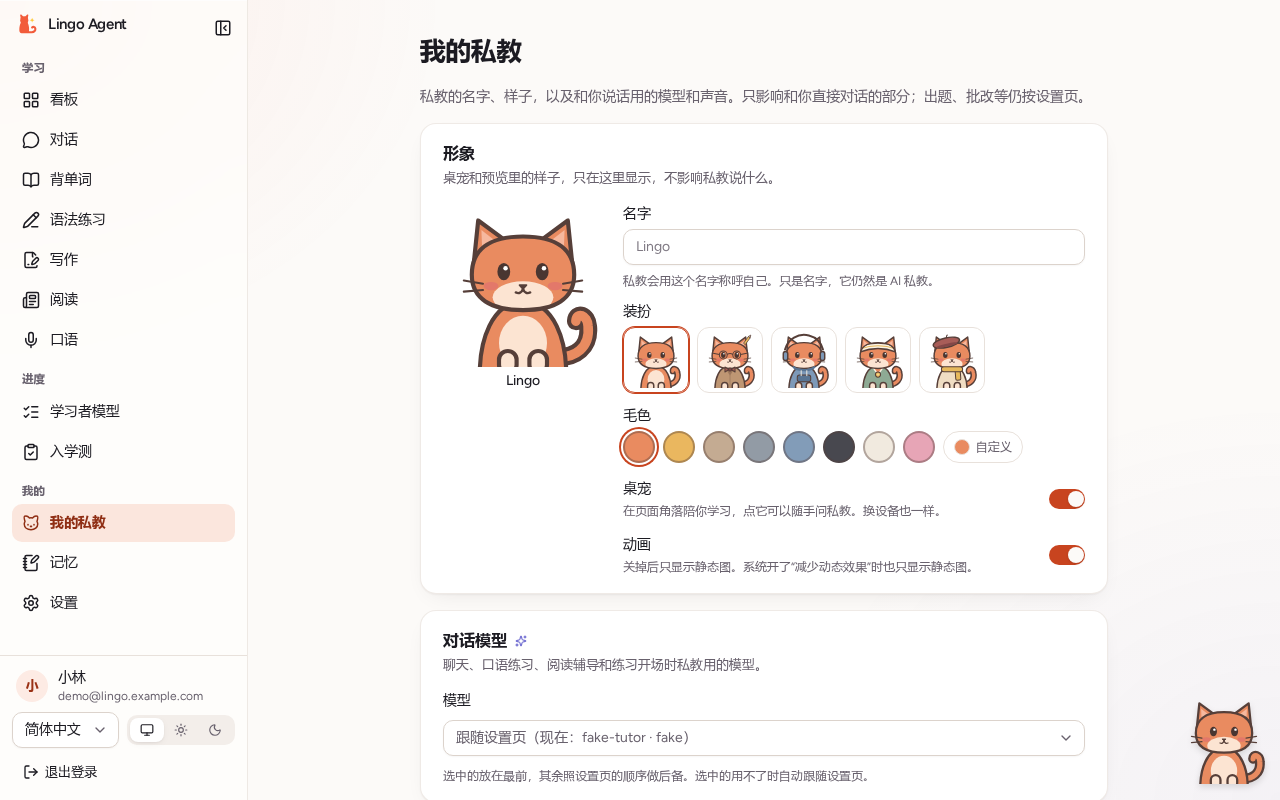
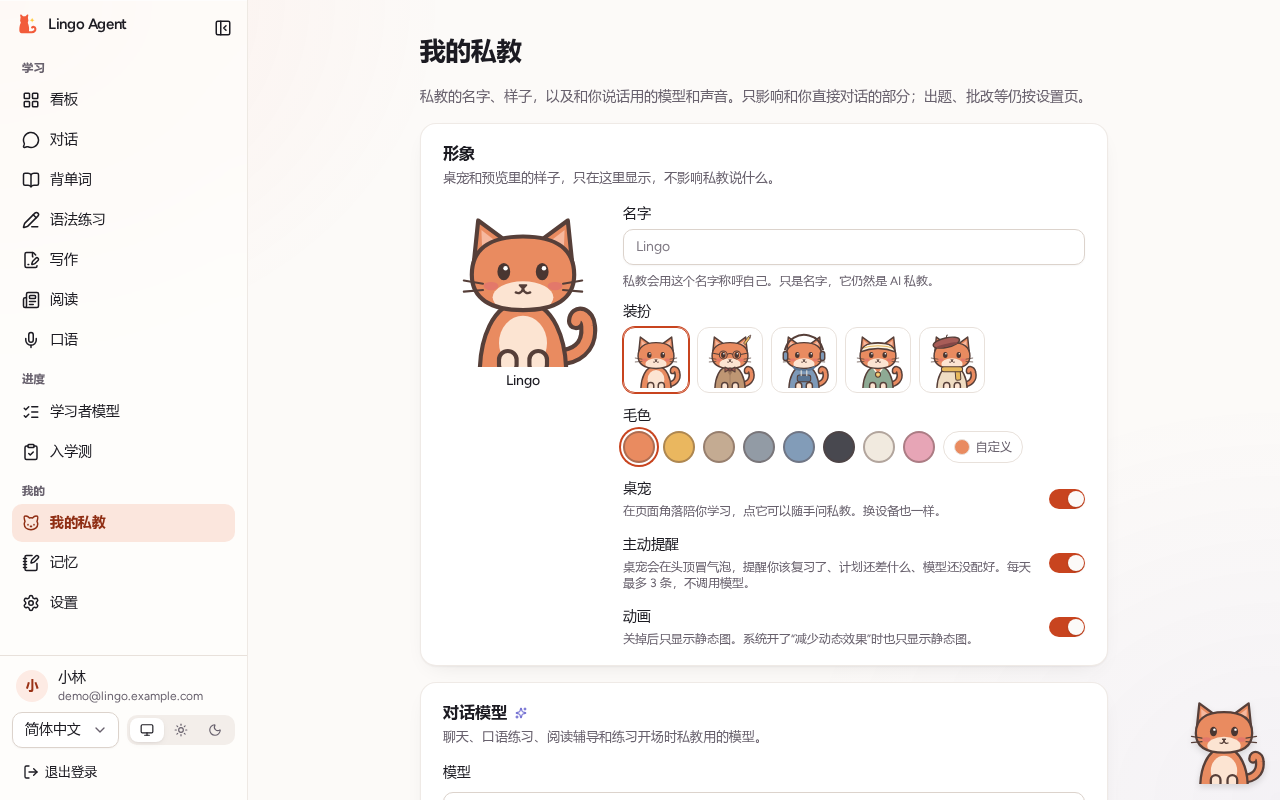
test(e2e): 桌宠指令与提醒 E2E，重拍私教页截图（任务 76.7）
pet.spec 覆盖两条主路径：没配模型时提醒气泡引到设置页连接卡片并高亮；
小窗说“我要背单词”只弹询问气泡、不发给模型，点开始在当前页打开叠卡，
问句照常发给私教。私教页截图多了“主动提醒”开关，其余截图不变。

Changed region(s): [[0.3438, 0.6562, 0.8438, 1.0], [0.8125, 0.75, 0.8438, 0.8125]]

diff --git a/frontend/e2e/pet.spec.ts b/frontend/e2e/pet.spec.ts
@@ -1,0 +1,87 @@
+import { expect, type Page, test } from "@playwright/test";
+
+import { register, uniqueEmail, useFakeModel } from "./helpers";
+
+test.use({ locale: "zh-CN" });
+
+// The desk pet as a way in and a reminder (ADR 0039): a short command said in its window
+// opens a bubble asking about it, then the thing itself; with no model set up it leads to
+// the settings card for it, unasked.
+
+const pet = (page: Page) => page.getByTestId("tutor-pet");
+const bubble = (page: Page) => page.getByTestId("pet-bubble");
+
+// The config starts every test with today's reminders used up (playwright.config.ts).
+async function letThePetRemind(page: Page) {
+  await page.evaluate(() => window.localStorage.removeItem("lingo.tutorPet.nudges"));
+}
+
+test("with no model, the pet leads to the settings card for one", async ({ page }) => {
+  await register(page, uniqueEmail("pet-setup"));
+  await letThePetRemind(page);
+  await page.goto("/vocab");
+
+  // Unasked, a few seconds after arriving.
+  await expect(bubble(page)).toBeVisible({ timeout: 15_000 });
+  await expect(bubble(page)).toHaveAttribute("data-key", "nudge:setup_model");
+  await expect(bubble(page)).toContainText("还没有能用的对话模型");
+  await page.screenshot({ path: test.info().outputPath("pet-nudge.png") });
+  await bubble(page).getByRole("link", { name: "去设置" }).click();
+  await expect(page).toHaveURL(/\/settings#connections$/);
+  await expect(page.locator("#connections")).toHaveAttribute("data-flash", "");
+  await expect(bubble(page)).toBeHidden();
+
+  // Said today: not again on the next page.
+  await page.goto("/learner");
+  await page.waitForTimeout(6_000);
+  await expect(bubble(page)).toBeHidden();
+
+  // The window says so too, and still opens things.
+  await pet(page).getByTestId("tutor-pet-button").click();
+  const window = page.getByTestId("pet-chat");
+  await expect(window.getByTestId("pet-chat-no-model")).toBeVisible();
+  await expect(window.getByTestId("pet-chat-shortcuts").getByRole("link", { name: "阅读" })).toHaveAttribute(
+    "href",
+    "/reading",
+  );
+});
+
+test("“我要背单词” in the pet's window asks, then opens flashcards in place", async ({ page }) => {
+  await register(page, uniqueEmail("pet-command"));
+  await useFakeModel(page);
+  await page.goto("/learner");
+
+  await pet(page).getByTestId("tutor-pet-button").click();
+  const window = page.getByTestId("pet-chat");
+  await expect(window).toBeVisible();
+  await expect(window.getByTestId("pet-chat-no-model")).toHaveCount(0);
+  const input = window.getByRole("textbox", { name: /输入消息/ });
+  await input.fill("我要背单词");
+  await input.press("Enter");
+
+  // Not sent to the tutor: the window goes, the pet asks.
+  await expect(window).toBeHidden();
+  await expect(bubble(page)).toHaveAttribute("data-key", "ask:vocab_review");
+  await expect(bubble(page)).toContainText("要开始背单词吗？");
+  await page.screenshot({ path: test.info().outputPath("pet-ask.png") });
+  await bubble(page).getByRole("link", { name: "开始" }).click();
+  await expect(page).toHaveURL(/\/learner\?review=all$/);
+  await expect(page.getByTestId("review-deck")).toBeVisible();
+  await expect(bubble(page)).toBeHidden();
+  await page.getByTestId("review-close").click();
+  await expect(page.getByTestId("review-deck")).toHaveCount(0);
+
+  // Nothing reached the tutor: no conversation has that message.
+  const conversations = await (await page.request.get("/api/conversations")).json();
+  for (const c of conversations as { id: string }[]) {
+    const messages = await (await page.request.get(`/api/conversations/${c.id}/messages`)).json();
+    expect(JSON.stringify(messages)).not.toContain("我要背单词");
+  }
+
+  // A question goes to the tutor as usual.
+  await pet(page).getByTestId("tutor-pet-button").click();
+  await input.fill("背单词有什么技巧");
+  await input.press("Enter");
+  await expect(window.locator('li[data-role="user"]').last()).toContainText("背单词有什么技巧");
+  await expect(bubble(page)).toHaveCount(0);
+});

diff --git a/docs/PROGRESS.md b/docs/PROGRESS.md
@@ -3,7 +3,7 @@
 > 状态：`[ ]` 未开始 · `[~]` 进行中 · `[x]` 完成 · `[!]` 阻塞（写明原因）
 > 阶段定义见 `docs/PLAN.md` 第四节。只在 P0 细化任务，后续阶段开始时再拆分。
 
-**当前阶段**：**任务 76（桌宠小猫做功能入口和主动提醒）：Q76a–e 2026-10-14 全部按推荐确认，76.1–76.6 完成，76.7 进行中**（2026-10-14）；**背单词改为遮罩弹层叠卡（任务 75）：Q75a–e 按推荐确认，75.1–75.5 完成，**任务 75 完成**（ADR 0038；Vitest 702、E2E 76 全过；2026-10-14 推送到 705359e，CI run 38576383064 四个 job 全绿；Docker 只重建了前端（任务 74、75 都只改前端），`/healthz` 200，空闲内存 frontend 58MiB / backend 82MiB / postgres 128MiB）**（2026-10-14）；**任务 73 视觉优化：已拆成 73.1–73.8，用户选 D 混合方案，Q73a–h 按推荐确认，73.2、73.3、73.1、73.1–73.8 全部完成，**任务 73 完成**（推送到 926cf98，CI run 38541467308 四个 job 全绿）；下一步：任务 71 等用户通知**（2026-10-14）；**首页（未登录）shader 改版（任务 74）：用户在 A/B/C、A2/C2 两轮草稿里选了 A2 流光，74.1–74.5 已确认；74.1–74.8 完成，**任务 74 完成**（ADR 0037；74.6 首屏占满一屏，74.7 对话卡片流式输出加工具调用动画，74.8 改为三个话题轮播；Vitest 692、E2E 74 全过，首页截图已重拍；2026-10-14 推送到 3f1910a，CI run 38567325590 四个 job 全绿；Docker 已随任务 75 一起重建）**（2026-10-14）；**P0–P4 已完成（任务 71 低配部署除外，等用户通知）**（2026-10-12；任务 65 已拆成 65.1–65.8，Q65a–k 已按推荐确认，65.1–65.5 完成（全量 pytest 1729 过，ruff / mypy 干净），65.1–65.8 完成，**任务 65 完成**（pytest 1731、Vitest 593、E2E 71 全过；推送到 2fae760，CI 全绿，Docker 已重建）；任务 66（学习者自选私教）已拆成 66.1–66.9（2026-10-13 改为桌宠方向重拆），Q66a–p 已按推荐确认，66.1–66.9 完成，**任务 66 完成**（pytest 1756、Vitest 671、E2E 73 全过；2026-10-13 推送到 d7b34c7，CI run 38354541301 四个 job 全绿；Docker 已重建，迁移 head `fe7fd0a7941a`，`/healthz` 200，空闲内存 backend 236MiB / frontend 55MiB / postgres 151MiB）。下一步：P4 剩余各项已拆成任务 67–72（2026-10-13），Q67–Q72 已按推荐确认，任务 67 完成（迁移 head `f32f909d2db1`），68.2 完成（先于 68.1 做：基线机制不依赖新评估集），68.3 完成（模拟学习者发现并修了两个选题问题，Q68d/e），68.1 完成（新评估集 4 个，qwen-plus 录制，门槛全达到；实测修了反思 / 写作把“改前改后一样”的条目记成错误证据），68.4 完成，**任务 68 完成**（pytest 1793、Vitest 671、E2E 73 全过；Vitest 全量时 `vocab-app.test.tsx` 一次在负载下超时，单独和重跑都过；2026-10-13 推送到 57afb7f，CI run 38373536272 四个 job 全绿；Docker 已重建，迁移 head `09f4bd3648d2`，`/healthz` 200，空闲内存 backend 218MiB / frontend 126MiB / postgres 103MiB）；任务 69 已拆成 69.0–69.6（Q69c–f 按推荐确认），**任务 69 完成**（ADR 0034，迁移 head `7332e2a8d1d8`；pytest 1805、Vitest 680、E2E 73 全过；2026-10-13 推送到 30458bf，CI run 38390110467 四个 job 全绿；Docker 已重建，迁移 head `7332e2a8d1d8`，`/healthz` 200，空闲内存 backend 221MiB / frontend 55MiB / postgres 103MiB）；任务 70 已拆成 70.0–70.3（Q70c–g 按推荐确认，Q70d 实测后改问一次），**任务 70 完成**（ADR 0035；pytest 1841、Vitest 684、E2E 74 全过；2026-10-13 推送到 28c708d，CI run 38407332516 四个 job 全绿；Docker 已重建，迁移 head `7332e2a8d1d8`，`/healthz` 200，经前端代理实测同一邮箱连错 10 次后第 11 次 429 + `retry-after: 900`；空闲内存 backend 222MiB / frontend 55MiB / postgres 77MiB）；任务 71（低配服务器部署）**等用户通知再做**（2026-10-13）；下一步：任务 72 已拆成 72.1–72.5，Q72c–g 已按推荐确认，72.1 完成（README 架构图与自适应闭环），72.3 完成（`make demo-seed`；按 Q72h 先于 72.2），72.2 完成（`make screenshots`，22 张图），72.4 完成（`docs/demo.md` 演示脚本），72.5 完成，**任务 72 完成，P4 完成（任务 71 除外）**（pytest 1845、Vitest 684、E2E 74 全过；2026-10-14 推送到 0b9c9a6，CI run 38517952339 四个 job 全绿；Docker 已重建，迁移 head `7332e2a8d1d8`，`/healthz` 200，空闲内存 backend 188MiB / frontend 58MiB / postgres 105MiB；顺带修了前端镜像在 build 阶段重新下载 pnpm）。下一步：任务 71（低配服务器部署）等用户通知。P3 记录：P3（语音）已拆成任务 52–64（计划 `docs/plans/P3-voice.md`），D1–D6、Q1–Q8 已按推荐确认（2026-10-09），任务 52 完成（ADR 0028–0030），任务 53 完成（服务端朗读后端：`tts` 路由节、`azure_speech` 连接、`tts_audio` 缓存、`/speech/tts`），任务 54 完成（前端朗读优先服务端并退回浏览器、学习者开关、设置页声音编辑与 Azure 区域、`AiBadge`、朗读缓存可清除 + 30 天自动清；Q54a–c 已确认；迁移 head `5ebd002ec068`；pytest 1482、Vitest 388、E2E 60 全过；2026-10-10 推送到 4858906，CI run 37969376093 四个 job 全绿；Docker 未重建），任务 55 完成（单词发音预生成：设置页“单词发音”估算 → 确认 → 后台分批生成、重启后接着跑、可暂停 / 继续 / 取消、按词书或旧声音删除；单词按语速 1 合成、浏览器调速；Q55a–g 按推荐确认；迁移 head `ef6b9eccf722`；pytest 1500、Vitest 394、E2E 61 全过；顺带修了作文收词与批改分两次提交导致页面漏显示收进的词（703064f）；2026-10-10 推送到 703064f，CI run 38018769365 四个 job 全绿；Docker 未重建），任务 56 完成（发音评测与跟读后端：`pronunciation` 路由节 + Azure 短音频适配器、转写对比兜底、`pronunciation_attempts` / `word_pronunciations`、口语能力 Elo、`/speech/shadowing` 接口与记录删除、背词卡片“读不准”、设置页“发音评测”路由；Q56a–f 按推荐确认；迁移 head `deaa2ad30b74`，规则版本 `2026-10-10.1`；pytest 1545、Vitest 396 全过；2026-10-10 推送到 7684ede，CI run 38027802954 四个 job 全绿；Docker 未重建，Docker 后端因镜像落后于开发库的迁移在重启循环），任务 57 完成（跟读组件：浏览器 AudioWorklet 录音编码成 16kHz WAV、`ShadowingPanel`、挂到私教回复 / 阅读段落 / 复习例句、复习卡片“读不准”、学习者模型页跟读记录；Q57a–g 按推荐确认；无迁移；Vitest 447、E2E 63 全过；2026-10-10 推送到 129d3dd，CI run 38031826142 四个 job 全绿；Docker 未重建），任务 58 完成（口语练习后端：情景清单、speaking_coach 子图、`speaking_sessions`、证据 source `speaking`、改转写、口语小结与可理解度 → 口语 Elo、`/speaking/*` 接口；Q58a–h 按推荐确认；迁移 head `08753b283c97`，规则版本 `2026-10-10.2`；pytest 1580、Vitest 447 全过；2026-10-10 推送到 c7629aa，CI run 38039064894 四个 job 全绿；Docker 未重建），任务 59 已拆成 59.1–59.7，Q59a–h 按推荐确认，59.1–59.7 完成，**任务 59 完成**（规则版本 `2026-10-10.3`，无迁移；E2E 64、pytest 1582、Vitest 472 全过；2026-10-10 推送到 70f50e9，CI run 38058383080 四个 job 全绿；Docker 已重建，`/healthz` 200，空闲内存 backend 244MiB / frontend 53MiB / postgres 92MiB）。任务 60（P3d 实时语音）已拆成 60.1–60.6，Q60a–i 按推荐确认（2026-10-10），60.1 完成（`realtime` 路由节，迁移 head `b86ae3e7639a`），60.2 完成（`openai_realtime` 适配器），60.3 完成（`WS /speech/realtime` 中继，迁移 head `48ef01baa0cf`），60.4 完成（开场上下文），60.5 完成（限额，迁移 head `85f290d7d433`），60.6 完成（公示与实测：`realtime_call` 按每分钟估算、设置页“实时语音”路由与连接测试、`agent-tools.md`、ADR 0030 落地记录；10 路并发实测内存共 +约 2MB、CPU 单核 2.3%），**任务 60 完成**（pytest 1616、Vitest 477、E2E 64 全过；本地领先 origin，未推送，Docker 未重建）；任务 61 已拆成 61.1–61.6（2026-10-11），Q61a–j 按推荐确认，61.1 完成（通话转写逐轮入库），61.2 完成（通话工具），61.3 完成（挂断后反思、小结、口语时间），61.4 完成（`gemini` 连接类型，迁移 head `159018254c68`），61.5 完成（`gemini_live` 适配器，无迁移），61.6 完成（文档与收尾：agent-tools、ADR 0030 任务 61 落地记录、PLAN、P3 计划；pytest 1646、Vitest 479、settings E2E 5 全过，lint 干净），**任务 61 完成**（迁移 head `159018254c68`；2026-10-11 推送到 8e2c64e，CI run 38126919878 四个 job 全绿；Docker 已重建（约 33 秒），迁移 head `159018254c68`，`/healthz` 200，空闲内存 backend 186MiB / frontend 57MiB / postgres 118MiB）。任务 62 已拆成 62.1–62.6，Q62a–j 按推荐确认（2026-10-11），62.1 完成（通话音频层），62.2 完成（通话客户端），62.3 完成（通话页 `/speaking/call`），62.4 完成（`/speaking` 打电话入口），62.5 完成（通话详情；消息接口加 `interrupted`，通话消息不再合并），62.6 完成（E2E `realtime.spec.ts` 2 条，假实时厂商 + 假麦克风，走 standalone 代理），**任务 62 完成**（无迁移；pytest 1649、Vitest 555、E2E 66 全过，lint 干净；本地领先 origin，未推送，Docker 未重建）。62.7 完成（用户选“跳过本通处理过的词”：挂断后的反思收词跳过本通 `add_to_vocab` 已加 / 已有的词，撤销的不会被加回；无迁移；pytest 1650、realtime E2E 2 条全过）。2026-10-11 推送到 3dd1934，CI run 38140952299 前端 job 失败：用例全过，但 `turn-activity.test.tsx`“tells what the tutor did on a realtime call”的 `onRemoveWord` 是裸 `vi.fn()`、返回 undefined，组件 `.then` 抛未处理错误；改成 `mockResolvedValue(undefined)`，Vitest 555 全过，推送到 a436c05，CI run 38141569886 四个 job 全绿；Docker 已重建（先后端再前端，一次一个），`/healthz` 200，空闲内存 backend 215MiB / frontend 42MiB / postgres 125MiB。任务 63 已拆成 63.1–63.4，Q63a–h 按推荐确认（2026-10-11），63.1 完成（干扰释义 `services/vocab/distractors.py`、`CardOut.gloss` / `choices`、`review_logs.format`，迁移 head `dc7609c9257f`），63.2 完成（题型切换 + 听音辨词），63.3 完成（拼写 + 混合），63.4 完成（E2E `vocab.spec.ts` 加 1 条、PLAN / P3 计划 / ADR 0011 补记），**任务 63 完成**（pytest 1654、E2E 67 全过；Vitest 567 中本次相关全过，全量并发跑时 `use-attachments.test.ts` 偶发超时、单独跑 5 次全过；lint 干净；本地领先 origin，未推送，Docker 未重建）。任务 64 已拆成 64.1–64.5（Q64a–g 按推荐确认，2026-10-11），64.1 完成（`e2e/p3-demo.spec.ts`，bfe0303），Docker 已按任务 63 重建；2026-10-12 用户决定朗读改接百炼 `qwen-audio-3.1-tts-next`，插入 64.2a（Q64h–m 按推荐确认），**64.2a 完成**（aed1aaf、0c30aba、c96299f、9fbfbc6 + 文档提交；无迁移）；Q64o 交互朗读改接 `qwen3-tts-flash`，插入 64.2b，**64.2b 完成**（d0f7d4c…5f81cdd）；**64.2 完成**（百炼 key 全栈冒烟，Docker 按 5f81cdd 重建，临时账号已删）；**64.3 完成**（6ea6caf、8efc35b、4840c2c + 文档提交；Q64t–x 按推荐确认）；**64.4 完成**（README 截图与状态、PLAN / P3 计划标完成；d919560 的 CI run 38231804049 四个 job 全绿）；**64.5 完成**（`make ci` 全过，2026-10-12 推送到 5073399，CI run 38235253808 四个 job 全绿，Docker 已重建，WebSocket 经前端代理实测通过），**任务 64 完成，P3 全部完成**；用户新提的组织账号与额度记为任务 65（P4 第一项），学习者自选私教记为任务 66。以下为历史记录：计划 Q1–Q10 已确认，ADR 0009–0011 已采纳；任务 0、1 完成。能力看板 Q11–Q14 也已确认。任务 2–5 完成（P1a 记忆全部完成），任务 6、7、8、8b、9 完成（P1b 学习者模型全部完成：KC 清单、规则文件与 BKT/Elo、反思打标 → 证据 → 掌握度、agent 活动公示、`/learner` 页面），任务 10–13 完成（P1c 背单词全部完成：ECDICT 词库导入 38,243 条；词书、卡片、FSRS 调度、每日队列、熟词筛选；背词接口和四个页面；反思自动收词 + 聊天里选词加入生词本），任务 14–16 完成（P1d 入学测全部完成：算法、子图、接口、结果写回、按词汇量批量标熟、`/placement` 页面、聊天页引导条；Q15a–Q15d、Q16a–Q16d 按推荐确认），任务 17 完成（`GET /dashboard` 聚合接口 + `/dashboard` 看板页，登录后首页改为看板；Q17a–Q17d 按推荐确认），任务 18 完成（看板“今天的建议”：候选算法、`advice` 结构化调用与代码校验、`learning_advice` 缓存与后台刷新、模板兜底；聊天页“超过 60 天重测”引导条；Q18a–Q18e 按推荐确认），任务 19 完成（针对语法点的练习对话：`conversations.focus_kc_id`、每轮练习指引、私教自动开场、建议卡片 / `/learner` / 看板常错语法点直达；Q19a–Q19d 按推荐确认，Q19e 按默认）；任务 20.1–20.4 完成（推送与 CI、Docker 重建、实测清单、用户实测）；实测反馈拆成任务 22（AI 用量标记）和任务 21（入学测后学习建议 + 私教工具调用与确认卡），子任务已确认，顺序 22 → 21 → 20.5 → 20.6；任务 22 完成（AI 用量标记：`features.yaml` 清单、`GET /usage/estimates`、前端 `AiBadge` 挂到各功能点、ADR 0014），21.1 完成（ADR 0015 已采纳），21.2 完成（后端工具与确认接口），21.3 完成（入学测结果页建议 + 学习规划对话），21.4 完成（前端卡片），21.5 完成（E2E），任务 21 全部完成；20.5 完成（录音静音拦截、转写空结果报错、连接卡片按能力测试）；20.6 README 中英两份已更新为 P1（Q20.6a 截图暂缓到网站设计改版后，Q20.6c 词库导入并入快速开始）。**P1 功能全部完成**；已推送，CI run 36754018341 四个 job 全绿（E2E 36）；2026-10-01 Docker 全栈已重建（约 40 秒，有缓存，迁移到 head `a5025a738252`，健康检查 200，空闲内存 backend 204MiB / frontend 54MiB / postgres 120MiB）。用户实测反馈：建议太僵硬，拆成任务 23（对话式学习建议，Q23a–g 已确认，ADR 0016 已采纳，23.1–23.5 全部完成，Docker 已重建）。用户建议拆成任务 24（对话中英比例、单词气泡、朗读，Q24a–j 已确认，ADR 0017 已采纳，24.1–24.7 全部完成，Docker 已重建）；朗读改为任务 25 的三层方案（浏览器挑好声音 → 单词发音预生成 → 可选服务端朗读），已拆成 25.1–25.6，Q25a–f 已确认，25.1 完成（ADR 0018 已采纳），25.2 完成（前端按语言和质量挑声音、按句切分），25.3 完成（朗读设置面板，存在当前浏览器），25.6 完成（E2E 41 全过、README、Docker 已重建）；实测发现在线声音在当前网络下播不出声，25.7 完成（在线声音播不出时退回本地声音，Q25g 只在当前页面有效）；25.4、25.5 用户决定移到 P3 作为后续优化项，任务 25 完成。2026-10-01 推送到 eaaa49b，CI run 36827946208 四个 job 全绿。任务 26（网站视觉改版）：26.1 设计提示词已写，26.2 设计资源已到 `docs/design/lingo-agent-design/`，26.3 已拆成 26.4–26.12，Q26a–f 全按推荐确认，26.4 完成（token、字体、logo、主题切换、ADR 0019），26.5 完成（写死颜色换 token、AI 标记重做、通用组件），26.6 完成（桌面侧栏、手机底部标签栏和“更多”面板），26.7 完成（确认对话框与原地确认替换 `window.confirm`），26.8 完成（对话页），26.9 完成（看板、学习者模型、记忆三页），26.10 完成（背单词、入学测、设置三页），26.11 完成（首页介绍、登录、注册），26.12 完成（截图对照、Docker 重建、README 截图），**任务 26 全部完成**，20.6.1 截图随之完成；实测修复 26.13（看板双滚动条）已完成。任务 27 完成（AI 标记只留 ✦；复习卡片释义按词性分行、专业义项和英文释义收进“更多”并标来源 ECDICT；评分栏固定在底部，显示每个评分的下次复习间隔）。任务 28 完成（复习卡片例句：ADR 0020，Tatoeba 真例句导入 `word_sentences`，开发库 18,221 句，卡片背面中文释义下面显示，“AI 例句”点了才生成；后台预生成 AI 例句记在 P2）。任务 28 用户初步实测暂无问题；2026-10-02 推送到 4b9b324，CI run 36905913966 四个 job 全绿。任务 29 完成（猫咪动画：设计包 `docs/design/lingo-cat-motion/` 入库，`LingoCat` / `CatLoading` / `ErrorText`，空状态和出错全用猫，私教回复前头像播 ai 动画，复习一轮和入学测完成播 done；Q29a–d 已确认；Docker 前端已重建，本地领先 origin 4 个提交未推送）。2026-10-02 推送到 86f065e；用户实测一轮通过，**P1 收尾完成**。后续视觉优化等功能全部做完再做（用户 2026-10-02 决定）。**P2 已拆分**：计划 `docs/plans/P2-adaptive-reading-writing.md`，D1–D4 已确认，任务 30–49 写进看板；Q5–Q13 已全部按推荐确认（2026-10-02）；D3 因 VOA 停更改为 NASA + Global Voices + 自加 RSS。任务 30 完成（ADR 0021–0025、PLAN 同步、删 Neo4j）；任务 31 已拆成 31.1–31.4，Q31a–c 已按推荐确认（语法点 FSRS 从证据重放；“没再错”看前 14 天；“跨天”= 相隔 ≥ 20 小时），任务 31 完成（题型定义、规则参数、迁移 `3b9536dae2f6`；pytest 880 全过）；任务 32 已拆成 32.1–32.5，Q32a–d 已按推荐确认（学会后对话 / 写作再错记 Again；掉到 weak 以下撤销学会、进度清零；候选 = 等级窗口 −2…+1 + 有证据的，没入学测按 A2；先识别后产出），任务 32 完成（选题、“学会”判定与语法点 FSRS 重放；pytest 959 全过）；任务 33 完成（出题子图、题库补位四档、PracticeWorker 与预生成；Q33a–g 已确认；pytest 1036 全过）；用户提出测试提醒，记为任务 50（Q50a–c 已确认，排在 35 之后）；任务 34 完成（批改：代码判 + `exercise_grade`、作答服务、举报、语法能力 Elo；Q34a–f 已确认；pytest 1075 全过）；2026-10-02 推送到 ba2402e，CI run 36983190564 四个 job 全绿；任务 35 完成（练习接口、`/practice` 页、入口、学习者模型“学会”进度；Q35a–e 按推荐确认；pytest 1110、Vitest 311、E2E 45 全过；Docker 已重建，迁移 head `27b21e3b464b`；2026-10-02 推送到 502a355，CI run 36998731468 四个 job 全绿）；任务 50 完成（测试提醒：`advice/reminder.py` 判定、`reminder_dismissals` 服务端“以后再说”、看板私教带原因提、聊天页引导条和练习页共用 `PlacementReminder`；Q50a–g 已确认；pytest 1129、Vitest 315、E2E 46 全过；Docker 已重建，迁移 head `72f41c4740dd`；在 Docker 全栈上用临时账号实测没测过 / 满 60 天 / 学会 24/33 三种情况和“以后再说”，测完已删账号；2026-10-02 推送到 8ce05ef，CI run 37007769203 四个 job 全绿）。任务 36 已拆成 36.1–36.4，Q36a–d 已按推荐确认，36.1 完成（评估框架、录制回放、`make eval` / `make eval-live`），36.2 完成（critic 数据集 44 条与评估器），36.3 完成（批改数据集 31 条与评估器），36.4 完成（gpt-5.5 录制入库：坏题拒 24/26、好题过 18/18、批改判对 31/31；修了 critic 提示词的 rewrite_own 说明），**任务 36 完成**；任务 37 已拆成 37.1–37.3，Q37a–c 已按推荐确认（分类和路由步骤挪到 38；coach 用子图），37.1–37.3 完成（supervisor 主图 + coach 子图，行为不变；E2E 46 全过），**任务 37 完成**；任务 38 已拆成 38.1–38.6，Q38a–f 已按推荐确认，38.1–38.6 完成，**任务 38 完成**；任务 39 已拆成 39.1–39.3，Q39a–e 已按推荐确认，39.1–39.3 完成，**任务 39 完成**（2026-10-03 推送到 1c962e4，CI run 37037309179 四个 job 全绿；Docker 已重建，迁移 head `5e1a7c3d9b20`，健康检查 200，空闲内存 backend 174MiB / frontend 57MiB / postgres 102MiB）；任务 51（模型停用开关）已拆成 51.1–51.3，Q51a–f 已确认，51.1–51.3 完成，**任务 51 完成**（ADR 0026，迁移 head `9c4d2e6f1a37`；2026-10-07 推送到 6d9240d，CI run 37623521668 四个 job 全绿；Docker 已重建，`/healthz` 200，空闲内存 backend 206MiB / frontend 55MiB / postgres 97MiB）；任务 40 已拆成 40.1–40.5，Q40a–f 已按推荐确认（2026-10-07），40.1 完成（调度框架、`scheduler_runs`、迁移 `71d583d62096`），40.2 完成（后台用量记账 `llm_usage.background`、租户每日上限、预生成判上限，迁移 `d4236aefe2d0`），40.3 完成（学习者开关表、`/me/background`、`/tenant/background`，迁移 `94afd2b1f522`），40.4 完成（设置页“后台任务”一节），40.5 完成，**任务 40 完成**（ADR 0025 落地，迁移 head `94afd2b1f522`；本地领先 origin 6 个提交，未推送，Docker 未重建）；2026-10-07 推送到 9c165b3，CI run 37640864594 四个 job 全绿；Docker 已重建，迁移 head `94afd2b1f522`，`/healthz` 200，空闲内存 backend 208MiB / frontend 43MiB / postgres 88MiB；任务 41（RSS 抓取）已拆成 41.1–41.5，Q41a–g 已按推荐确认，41.1 完成（表、迁移 `a982263b9709`、内置源登记），41.2 完成（抓取、解析、清洗、来源规则；Q41h 加 `FEED_HTTP_PROXY`），41.3 完成（`rss_fetch` 定时任务、退避、清理），41.4 完成（阅读来源接口），41.5 完成，**任务 41 完成**（迁移 head `a982263b9709`；本地领先 origin 6 个提交，未推送，Docker 未重建）；2026-10-08 推送到 aebe1b0，CI run 37751813041 四个 job 全绿；任务 42 已拆成 42.1–42.6，用户授权 Q42a–i 一律按推荐，42.1–42.6 完成，**任务 42 完成**（`article_versions`、迁移 head `7aeed833bec4`、规则版本 `2026-10-08.1`、改写子图 + 代码算词表、`/reading/articles/{id}/version` 接口、定时任务 `article_prerewrite`；pytest 1326、Vitest 340、E2E 50 全过；2026-10-08 推送到 e9ef014，CI run 37755052994 四个 job 全绿；Docker 未重建）；任务 43（`/reading` 页）已拆成 43.1–43.6，用户授权 Q43a–j 一律按推荐，43.1–43.6 完成，**任务 43 完成**（迁移 head `ab322160460f`；pytest 1339、Vitest 357、E2E 52 全过；Docker 已重建；2026-10-08 推送到 1a072a8，CI run 37770089765 四个 job 全绿）；任务 44 完成（后台预生成 AI 例句：覆盖率 GRE 30.8% / 托福 51.8%，按学习者第二天的词预生成，Q44a–f 按推荐确认，ADR 0020 修订，无迁移；2026-10-08 推送到 34d991d，CI run 37776938944 四个 job 全绿；Docker 未重建）；任务 45 完成（语法图谱：24 对易混关系、`kc_edges` 与启动时同步、`adaptive/graph.py` 递归查询，Q45a–g 按推荐确认，迁移 head `3a568a1e98f8`，规则版本 `2026-10-08.2`；pytest 1363 全过；2026-10-08 推送到 d6a05a6，CI run 37787550927 四个 job 全绿；Docker 未重建）；任务 46 完成（诊断 Agent：`adaptive/diagnosis/`、`diagnoses` 表、每天一次的定时任务 + 练习组结束后诊断、事实记忆原地更新、选题加成 ×1.5、评估集 12 条（还没用真模型录制）；Q46a–h 按推荐确认；迁移 head `b1e62314d079`，规则版本 `2026-10-08.3`；pytest 1396、Vitest 358、E2E 53 全过；2026-10-08 推送到 a41901e，CI run 37797059893 四个 job 全绿；Docker 未重建）；任务 47 完成（学习者模型页“私教的诊断”：`GET /learner/diagnosis`、`DELETE /learner/diagnoses/{id}`、语法点带前置 / 易混、页面区块；Q47a–g 按推荐确认；无迁移；pytest 1403、Vitest 362、E2E 54 全过；2026-10-09 推送到 0341245，CI run 37889566947 四个 job 全绿；Docker 未重建）；任务 48 完成（每日计划：算法出草案、看板确认、私教 `propose_daily_plan` 确认卡重提、完成情况现算；ADR 0027；Q48a–h 按推荐确认；迁移 head `16aa2f30597e`，规则版本 `2026-10-09.1`；pytest 1430、Vitest 371、E2E 56 全过；2026-10-09 推送到 3766353，CI run 37895335895 四个 job 全绿；Docker 已重建（约 40 秒），迁移 head `16aa2f30597e`，`/healthz` 200，空闲内存 backend 204MiB / frontend 50MiB / postgres 100MiB）；用户决定产品完整前不再逐个任务实测，以 E2E 覆盖。任务 49 已拆成 49.1–49.5（Q49a–e 按推荐确认），49.1 完成（P2 全链路 E2E，E2E 57），49.2 完成（gpt-6.1-sol 真模型冒烟，诊断评估集已录制；发现超时太短、练习组冷启动 5 分钟、token 估计偏低，交给 49.3），49.3 完成（按任务设超时、练习组等待预算 150 秒、token 估计校准、新租户后台上限 300,000，迁移 head `c7e2a94d1b05`，规则版本 `2026-10-09.2`），49.4 完成（README 中英两份加练习、写作、阅读截图，标 P2 完成；PLAN 和 P2 计划标完成）；49.5 完成（`make ci` 全过：pytest 1438、Vitest 371、E2E 57；修了两处过期的测试断言；2026-10-09 推送到 8e33bf0，CI run 37936868983 四个 job 全绿；Docker 已重建，迁移 head `c7e2a94d1b05`，`/healthz` 200，空闲内存 backend 212MiB / frontend 59MiB / postgres 104MiB），**任务 49 完成，P2 全部完成**。下一步：P3 拆分（先读 `docs/PLAN.md` 第四节 P3，把任务写进看板，和用户确认后再写代码）。
+**当前阶段**：**任务 76（桌宠小猫做功能入口和主动提醒）：Q76a–e 2026-10-14 全部按推荐确认，76.1–76.7 完成，**任务 76 完成**（ADR 0039，迁移 head `e1f12efce78f`；pytest 1845、Vitest 734、E2E 78 全过，lint 干净；未推送，Docker 未重建，前后端都要重建）**（2026-10-14）；**背单词改为遮罩弹层叠卡（任务 75）：Q75a–e 按推荐确认，75.1–75.5 完成，**任务 75 完成**（ADR 0038；Vitest 702、E2E 76 全过；2026-10-14 推送到 705359e，CI run 38576383064 四个 job 全绿；Docker 只重建了前端（任务 74、75 都只改前端），`/healthz` 200，空闲内存 frontend 58MiB / backend 82MiB / postgres 128MiB）**（2026-10-14）；**任务 73 视觉优化：已拆成 73.1–73.8，用户选 D 混合方案，Q73a–h 按推荐确认，73.2、73.3、73.1、73.1–73.8 全部完成，**任务 73 完成**（推送到 926cf98，CI run 38541467308 四个 job 全绿）；下一步：任务 71 等用户通知**（2026-10-14）；**首页（未登录）shader 改版（任务 74）：用户在 A/B/C、A2/C2 两轮草稿里选了 A2 流光，74.1–74.5 已确认；74.1–74.8 完成，**任务 74 完成**（ADR 0037；74.6 首屏占满一屏，74.7 对话卡片流式输出加工具调用动画，74.8 改为三个话题轮播；Vitest 692、E2E 74 全过，首页截图已重拍；2026-10-14 推送到 3f1910a，CI run 38567325590 四个 job 全绿；Docker 已随任务 75 一起重建）**（2026-10-14）；**P0–P4 已完成（任务 71 低配部署除外，等用户通知）**（2026-10-12；任务 65 已拆成 65.1–65.8，Q65a–k 已按推荐确认，65.1–65.5 完成（全量 pytest 1729 过，ruff / mypy 干净），65.1–65.8 完成，**任务 65 完成**（pytest 1731、Vitest 593、E2E 71 全过；推送到 2fae760，CI 全绿，Docker 已重建）；任务 66（学习者自选私教）已拆成 66.1–66.9（2026-10-13 改为桌宠方向重拆），Q66a–p 已按推荐确认，66.1–66.9 完成，**任务 66 完成**（pytest 1756、Vitest 671、E2E 73 全过；2026-10-13 推送到 d7b34c7，CI run 38354541301 四个 job 全绿；Docker 已重建，迁移 head `fe7fd0a7941a`，`/healthz` 200，空闲内存 backend 236MiB / frontend 55MiB / postgres 151MiB）。下一步：P4 剩余各项已拆成任务 67–72（2026-10-13），Q67–Q72 已按推荐确认，任务 67 完成（迁移 head `f32f909d2db1`），68.2 完成（先于 68.1 做：基线机制不依赖新评估集），68.3 完成（模拟学习者发现并修了两个选题问题，Q68d/e），68.1 完成（新评估集 4 个，qwen-plus 录制，门槛全达到；实测修了反思 / 写作把“改前改后一样”的条目记成错误证据），68.4 完成，**任务 68 完成**（pytest 1793、Vitest 671、E2E 73 全过；Vitest 全量时 `vocab-app.test.tsx` 一次在负载下超时，单独和重跑都过；2026-10-13 推送到 57afb7f，CI run 38373536272 四个 job 全绿；Docker 已重建，迁移 head `09f4bd3648d2`，`/healthz` 200，空闲内存 backend 218MiB / frontend 126MiB / postgres 103MiB）；任务 69 已拆成 69.0–69.6（Q69c–f 按推荐确认），**任务 69 完成**（ADR 0034，迁移 head `7332e2a8d1d8`；pytest 1805、Vitest 680、E2E 73 全过；2026-10-13 推送到 30458bf，CI run 38390110467 四个 job 全绿；Docker 已重建，迁移 head `7332e2a8d1d8`，`/healthz` 200，空闲内存 backend 221MiB / frontend 55MiB / postgres 103MiB）；任务 70 已拆成 70.0–70.3（Q70c–g 按推荐确认，Q70d 实测后改问一次），**任务 70 完成**（ADR 0035；pytest 1841、Vitest 684、E2E 74 全过；2026-10-13 推送到 28c708d，CI run 38407332516 四个 job 全绿；Docker 已重建，迁移 head `7332e2a8d1d8`，`/healthz` 200，经前端代理实测同一邮箱连错 10 次后第 11 次 429 + `retry-after: 900`；空闲内存 backend 222MiB / frontend 55MiB / postgres 77MiB）；任务 71（低配服务器部署）**等用户通知再做**（2026-10-13）；下一步：任务 72 已拆成 72.1–72.5，Q72c–g 已按推荐确认，72.1 完成（README 架构图与自适应闭环），72.3 完成（`make demo-seed`；按 Q72h 先于 72.2），72.2 完成（`make screenshots`，22 张图），72.4 完成（`docs/demo.md` 演示脚本），72.5 完成，**任务 72 完成，P4 完成（任务 71 除外）**（pytest 1845、Vitest 684、E2E 74 全过；2026-10-14 推送到 0b9c9a6，CI run 38517952339 四个 job 全绿；Docker 已重建，迁移 head `7332e2a8d1d8`，`/healthz` 200，空闲内存 backend 188MiB / frontend 58MiB / postgres 105MiB；顺带修了前端镜像在 build 阶段重新下载 pnpm）。下一步：任务 71（低配服务器部署）等用户通知。P3 记录：P3（语音）已拆成任务 52–64（计划 `docs/plans/P3-voice.md`），D1–D6、Q1–Q8 已按推荐确认（2026-10-09），任务 52 完成（ADR 0028–0030），任务 53 完成（服务端朗读后端：`tts` 路由节、`azure_speech` 连接、`tts_audio` 缓存、`/speech/tts`），任务 54 完成（前端朗读优先服务端并退回浏览器、学习者开关、设置页声音编辑与 Azure 区域、`AiBadge`、朗读缓存可清除 + 30 天自动清；Q54a–c 已确认；迁移 head `5ebd002ec068`；pytest 1482、Vitest 388、E2E 60 全过；2026-10-10 推送到 4858906，CI run 37969376093 四个 job 全绿；Docker 未重建），任务 55 完成（单词发音预生成：设置页“单词发音”估算 → 确认 → 后台分批生成、重启后接着跑、可暂停 / 继续 / 取消、按词书或旧声音删除；单词按语速 1 合成、浏览器调速；Q55a–g 按推荐确认；迁移 head `ef6b9eccf722`；pytest 1500、Vitest 394、E2E 61 全过；顺带修了作文收词与批改分两次提交导致页面漏显示收进的词（703064f）；2026-10-10 推送到 703064f，CI run 38018769365 四个 job 全绿；Docker 未重建），任务 56 完成（发音评测与跟读后端：`pronunciation` 路由节 + Azure 短音频适配器、转写对比兜底、`pronunciation_attempts` / `word_pronunciations`、口语能力 Elo、`/speech/shadowing` 接口与记录删除、背词卡片“读不准”、设置页“发音评测”路由；Q56a–f 按推荐确认；迁移 head `deaa2ad30b74`，规则版本 `2026-10-10.1`；pytest 1545、Vitest 396 全过；2026-10-10 推送到 7684ede，CI run 38027802954 四个 job 全绿；Docker 未重建，Docker 后端因镜像落后于开发库的迁移在重启循环），任务 57 完成（跟读组件：浏览器 AudioWorklet 录音编码成 16kHz WAV、`ShadowingPanel`、挂到私教回复 / 阅读段落 / 复习例句、复习卡片“读不准”、学习者模型页跟读记录；Q57a–g 按推荐确认；无迁移；Vitest 447、E2E 63 全过；2026-10-10 推送到 129d3dd，CI run 38031826142 四个 job 全绿；Docker 未重建），任务 58 完成（口语练习后端：情景清单、speaking_coach 子图、`speaking_sessions`、证据 source `speaking`、改转写、口语小结与可理解度 → 口语 Elo、`/speaking/*` 接口；Q58a–h 按推荐确认；迁移 head `08753b283c97`，规则版本 `2026-10-10.2`；pytest 1580、Vitest 447 全过；2026-10-10 推送到 c7629aa，CI run 38039064894 四个 job 全绿；Docker 未重建），任务 59 已拆成 59.1–59.7，Q59a–h 按推荐确认，59.1–59.7 完成，**任务 59 完成**（规则版本 `2026-10-10.3`，无迁移；E2E 64、pytest 1582、Vitest 472 全过；2026-10-10 推送到 70f50e9，CI run 38058383080 四个 job 全绿；Docker 已重建，`/healthz` 200，空闲内存 backend 244MiB / frontend 53MiB / postgres 92MiB）。任务 60（P3d 实时语音）已拆成 60.1–60.6，Q60a–i 按推荐确认（2026-10-10），60.1 完成（`realtime` 路由节，迁移 head `b86ae3e7639a`），60.2 完成（`openai_realtime` 适配器），60.3 完成（`WS /speech/realtime` 中继，迁移 head `48ef01baa0cf`），60.4 完成（开场上下文），60.5 完成（限额，迁移 head `85f290d7d433`），60.6 完成（公示与实测：`realtime_call` 按每分钟估算、设置页“实时语音”路由与连接测试、`agent-tools.md`、ADR 0030 落地记录；10 路并发实测内存共 +约 2MB、CPU 单核 2.3%），**任务 60 完成**（pytest 1616、Vitest 477、E2E 64 全过；本地领先 origin，未推送，Docker 未重建）；任务 61 已拆成 61.1–61.6（2026-10-11），Q61a–j 按推荐确认，61.1 完成（通话转写逐轮入库），61.2 完成（通话工具），61.3 完成（挂断后反思、小结、口语时间），61.4 完成（`gemini` 连接类型，迁移 head `159018254c68`），61.5 完成（`gemini_live` 适配器，无迁移），61.6 完成（文档与收尾：agent-tools、ADR 0030 任务 61 落地记录、PLAN、P3 计划；pytest 1646、Vitest 479、settings E2E 5 全过，lint 干净），**任务 61 完成**（迁移 head `159018254c68`；2026-10-11 推送到 8e2c64e，CI run 38126919878 四个 job 全绿；Docker 已重建（约 33 秒），迁移 head `159018254c68`，`/healthz` 200，空闲内存 backend 186MiB / frontend 57MiB / postgres 118MiB）。任务 62 已拆成 62.1–62.6，Q62a–j 按推荐确认（2026-10-11），62.1 完成（通话音频层），62.2 完成（通话客户端），62.3 完成（通话页 `/speaking/call`），62.4 完成（`/speaking` 打电话入口），62.5 完成（通话详情；消息接口加 `interrupted`，通话消息不再合并），62.6 完成（E2E `realtime.spec.ts` 2 条，假实时厂商 + 假麦克风，走 standalone 代理），**任务 62 完成**（无迁移；pytest 1649、Vitest 555、E2E 66 全过，lint 干净；本地领先 origin，未推送，Docker 未重建）。62.7 完成（用户选“跳过本通处理过的词”：挂断后的反思收词跳过本通 `add_to_vocab` 已加 / 已有的词，撤销的不会被加回；无迁移；pytest 1650、realtime E2E 2 条全过）。2026-10-11 推送到 3dd1934，CI run 38140952299 前端 job 失败：用例全过，但 `turn-activity.test.tsx`“tells what the tutor did on a realtime call”的 `onRemoveWord` 是裸 `vi.fn()`、返回 undefined，组件 `.then` 抛未处理错误；改成 `mockResolvedValue(undefined)`，Vitest 555 全过，推送到 a436c05，CI run 38141569886 四个 job 全绿；Docker 已重建（先后端再前端，一次一个），`/healthz` 200，空闲内存 backend 215MiB / frontend 42MiB / postgres 125MiB。任务 63 已拆成 63.1–63.4，Q63a–h 按推荐确认（2026-10-11），63.1 完成（干扰释义 `services/vocab/distractors.py`、`CardOut.gloss` / `choices`、`review_logs.format`，迁移 head `dc7609c9257f`），63.2 完成（题型切换 + 听音辨词），63.3 完成（拼写 + 混合），63.4 完成（E2E `vocab.spec.ts` 加 1 条、PLAN / P3 计划 / ADR 0011 补记），**任务 63 完成**（pytest 1654、E2E 67 全过；Vitest 567 中本次相关全过，全量并发跑时 `use-attachments.test.ts` 偶发超时、单独跑 5 次全过；lint 干净；本地领先 origin，未推送，Docker 未重建）。任务 64 已拆成 64.1–64.5（Q64a–g 按推荐确认，2026-10-11），64.1 完成（`e2e/p3-demo.spec.ts`，bfe0303），Docker 已按任务 63 重建；2026-10-12 用户决定朗读改接百炼 `qwen-audio-3.1-tts-next`，插入 64.2a（Q64h–m 按推荐确认），**64.2a 完成**（aed1aaf、0c30aba、c96299f、9fbfbc6 + 文档提交；无迁移）；Q64o 交互朗读改接 `qwen3-tts-flash`，插入 64.2b，**64.2b 完成**（d0f7d4c…5f81cdd）；**64.2 完成**（百炼 key 全栈冒烟，Docker 按 5f81cdd 重建，临时账号已删）；**64.3 完成**（6ea6caf、8efc35b、4840c2c + 文档提交；Q64t–x 按推荐确认）；**64.4 完成**（README 截图与状态、PLAN / P3 计划标完成；d919560 的 CI run 38231804049 四个 job 全绿）；**64.5 完成**（`make ci` 全过，2026-10-12 推送到 5073399，CI run 38235253808 四个 job 全绿，Docker 已重建，WebSocket 经前端代理实测通过），**任务 64 完成，P3 全部完成**；用户新提的组织账号与额度记为任务 65（P4 第一项），学习者自选私教记为任务 66。以下为历史记录：计划 Q1–Q10 已确认，ADR 0009–0011 已采纳；任务 0、1 完成。能力看板 Q11–Q14 也已确认。任务 2–5 完成（P1a 记忆全部完成），任务 6、7、8、8b、9 完成（P1b 学习者模型全部完成：KC 清单、规则文件与 BKT/Elo、反思打标 → 证据 → 掌握度、agent 活动公示、`/learner` 页面），任务 10–13 完成（P1c 背单词全部完成：ECDICT 词库导入 38,243 条；词书、卡片、FSRS 调度、每日队列、熟词筛选；背词接口和四个页面；反思自动收词 + 聊天里选词加入生词本），任务 14–16 完成（P1d 入学测全部完成：算法、子图、接口、结果写回、按词汇量批量标熟、`/placement` 页面、聊天页引导条；Q15a–Q15d、Q16a–Q16d 按推荐确认），任务 17 完成（`GET /dashboard` 聚合接口 + `/dashboard` 看板页，登录后首页改为看板；Q17a–Q17d 按推荐确认），任务 18 完成（看板“今天的建议”：候选算法、`advice` 结构化调用与代码校验、`learning_advice` 缓存与后台刷新、模板兜底；聊天页“超过 60 天重测”引导条；Q18a–Q18e 按推荐确认），任务 19 完成（针对语法点的练习对话：`conversations.focus_kc_id`、每轮练习指引、私教自动开场、建议卡片 / `/learner` / 看板常错语法点直达；Q19a–Q19d 按推荐确认，Q19e 按默认）；任务 20.1–20.4 完成（推送与 CI、Docker 重建、实测清单、用户实测）；实测反馈拆成任务 22（AI 用量标记）和任务 21（入学测后学习建议 + 私教工具调用与确认卡），子任务已确认，顺序 22 → 21 → 20.5 → 20.6；任务 22 完成（AI 用量标记：`features.yaml` 清单、`GET /usage/estimates`、前端 `AiBadge` 挂到各功能点、ADR 0014），21.1 完成（ADR 0015 已采纳），21.2 完成（后端工具与确认接口），21.3 完成（入学测结果页建议 + 学习规划对话），21.4 完成（前端卡片），21.5 完成（E2E），任务 21 全部完成；20.5 完成（录音静音拦截、转写空结果报错、连接卡片按能力测试）；20.6 README 中英两份已更新为 P1（Q20.6a 截图暂缓到网站设计改版后，Q20.6c 词库导入并入快速开始）。**P1 功能全部完成**；已推送，CI run 36754018341 四个 job 全绿（E2E 36）；2026-10-01 Docker 全栈已重建（约 40 秒，有缓存，迁移到 head `a5025a738252`，健康检查 200，空闲内存 backend 204MiB / frontend 54MiB / postgres 120MiB）。用户实测反馈：建议太僵硬，拆成任务 23（对话式学习建议，Q23a–g 已确认，ADR 0016 已采纳，23.1–23.5 全部完成，Docker 已重建）。用户建议拆成任务 24（对话中英比例、单词气泡、朗读，Q24a–j 已确认，ADR 0017 已采纳，24.1–24.7 全部完成，Docker 已重建）；朗读改为任务 25 的三层方案（浏览器挑好声音 → 单词发音预生成 → 可选服务端朗读），已拆成 25.1–25.6，Q25a–f 已确认，25.1 完成（ADR 0018 已采纳），25.2 完成（前端按语言和质量挑声音、按句切分），25.3 完成（朗读设置面板，存在当前浏览器），25.6 完成（E2E 41 全过、README、Docker 已重建）；实测发现在线声音在当前网络下播不出声，25.7 完成（在线声音播不出时退回本地声音，Q25g 只在当前页面有效）；25.4、25.5 用户决定移到 P3 作为后续优化项，任务 25 完成。2026-10-01 推送到 eaaa49b，CI run 36827946208 四个 job 全绿。任务 26（网站视觉改版）：26.1 设计提示词已写，26.2 设计资源已到 `docs/design/lingo-agent-design/`，26.3 已拆成 26.4–26.12，Q26a–f 全按推荐确认，26.4 完成（token、字体、logo、主题切换、ADR 0019），26.5 完成（写死颜色换 token、AI 标记重做、通用组件），26.6 完成（桌面侧栏、手机底部标签栏和“更多”面板），26.7 完成（确认对话框与原地确认替换 `window.confirm`），26.8 完成（对话页），26.9 完成（看板、学习者模型、记忆三页），26.10 完成（背单词、入学测、设置三页），26.11 完成（首页介绍、登录、注册），26.12 完成（截图对照、Docker 重建、README 截图），**任务 26 全部完成**，20.6.1 截图随之完成；实测修复 26.13（看板双滚动条）已完成。任务 27 完成（AI 标记只留 ✦；复习卡片释义按词性分行、专业义项和英文释义收进“更多”并标来源 ECDICT；评分栏固定在底部，显示每个评分的下次复习间隔）。任务 28 完成（复习卡片例句：ADR 0020，Tatoeba 真例句导入 `word_sentences`，开发库 18,221 句，卡片背面中文释义下面显示，“AI 例句”点了才生成；后台预生成 AI 例句记在 P2）。任务 28 用户初步实测暂无问题；2026-10-02 推送到 4b9b324，CI run 36905913966 四个 job 全绿。任务 29 完成（猫咪动画：设计包 `docs/design/lingo-cat-motion/` 入库，`LingoCat` / `CatLoading` / `ErrorText`，空状态和出错全用猫，私教回复前头像播 ai 动画，复习一轮和入学测完成播 done；Q29a–d 已确认；Docker 前端已重建，本地领先 origin 4 个提交未推送）。2026-10-02 推送到 86f065e；用户实测一轮通过，**P1 收尾完成**。后续视觉优化等功能全部做完再做（用户 2026-10-02 决定）。**P2 已拆分**：计划 `docs/plans/P2-adaptive-reading-writing.md`，D1–D4 已确认，任务 30–49 写进看板；Q5–Q13 已全部按推荐确认（2026-10-02）；D3 因 VOA 停更改为 NASA + Global Voices + 自加 RSS。任务 30 完成（ADR 0021–0025、PLAN 同步、删 Neo4j）；任务 31 已拆成 31.1–31.4，Q31a–c 已按推荐确认（语法点 FSRS 从证据重放；“没再错”看前 14 天；“跨天”= 相隔 ≥ 20 小时），任务 31 完成（题型定义、规则参数、迁移 `3b9536dae2f6`；pytest 880 全过）；任务 32 已拆成 32.1–32.5，Q32a–d 已按推荐确认（学会后对话 / 写作再错记 Again；掉到 weak 以下撤销学会、进度清零；候选 = 等级窗口 −2…+1 + 有证据的，没入学测按 A2；先识别后产出），任务 32 完成（选题、“学会”判定与语法点 FSRS 重放；pytest 959 全过）；任务 33 完成（出题子图、题库补位四档、PracticeWorker 与预生成；Q33a–g 已确认；pytest 1036 全过）；用户提出测试提醒，记为任务 50（Q50a–c 已确认，排在 35 之后）；任务 34 完成（批改：代码判 + `exercise_grade`、作答服务、举报、语法能力 Elo；Q34a–f 已确认；pytest 1075 全过）；2026-10-02 推送到 ba2402e，CI run 36983190564 四个 job 全绿；任务 35 完成（练习接口、`/practice` 页、入口、学习者模型“学会”进度；Q35a–e 按推荐确认；pytest 1110、Vitest 311、E2E 45 全过；Docker 已重建，迁移 head `27b21e3b464b`；2026-10-02 推送到 502a355，CI run 36998731468 四个 job 全绿）；任务 50 完成（测试提醒：`advice/reminder.py` 判定、`reminder_dismissals` 服务端“以后再说”、看板私教带原因提、聊天页引导条和练习页共用 `PlacementReminder`；Q50a–g 已确认；pytest 1129、Vitest 315、E2E 46 全过；Docker 已重建，迁移 head `72f41c4740dd`；在 Docker 全栈上用临时账号实测没测过 / 满 60 天 / 学会 24/33 三种情况和“以后再说”，测完已删账号；2026-10-02 推送到 8ce05ef，CI run 37007769203 四个 job 全绿）。任务 36 已拆成 36.1–36.4，Q36a–d 已按推荐确认，36.1 完成（评估框架、录制回放、`make eval` / `make eval-live`），36.2 完成（critic 数据集 44 条与评估器），36.3 完成（批改数据集 31 条与评估器），36.4 完成（gpt-5.5 录制入库：坏题拒 24/26、好题过 18/18、批改判对 31/31；修了 critic 提示词的 rewrite_own 说明），**任务 36 完成**；任务 37 已拆成 37.1–37.3，Q37a–c 已按推荐确认（分类和路由步骤挪到 38；coach 用子图），37.1–37.3 完成（supervisor 主图 + coach 子图，行为不变；E2E 46 全过），**任务 37 完成**；任务 38 已拆成 38.1–38.6，Q38a–f 已按推荐确认，38.1–38.6 完成，**任务 38 完成**；任务 39 已拆成 39.1–39.3，Q39a–e 已按推荐确认，39.1–39.3 完成，**任务 39 完成**（2026-10-03 推送到 1c962e4，CI run 37037309179 四个 job 全绿；Docker 已重建，迁移 head `5e1a7c3d9b20`，健康检查 200，空闲内存 backend 174MiB / frontend 57MiB / postgres 102MiB）；任务 51（模型停用开关）已拆成 51.1–51.3，Q51a–f 已确认，51.1–51.3 完成，**任务 51 完成**（ADR 0026，迁移 head `9c4d2e6f1a37`；2026-10-07 推送到 6d9240d，CI run 37623521668 四个 job 全绿；Docker 已重建，`/healthz` 200，空闲内存 backend 206MiB / frontend 55MiB / postgres 97MiB）；任务 40 已拆成 40.1–40.5，Q40a–f 已按推荐确认（2026-10-07），40.1 完成（调度框架、`scheduler_runs`、迁移 `71d583d62096`），40.2 完成（后台用量记账 `llm_usage.background`、租户每日上限、预生成判上限，迁移 `d4236aefe2d0`），40.3 完成（学习者开关表、`/me/background`、`/tenant/background`，迁移 `94afd2b1f522`），40.4 完成（设置页“后台任务”一节），40.5 完成，**任务 40 完成**（ADR 0025 落地，迁移 head `94afd2b1f522`；本地领先 origin 6 个提交，未推送，Docker 未重建）；2026-10-07 推送到 9c165b3，CI run 37640864594 四个 job 全绿；Docker 已重建，迁移 head `94afd2b1f522`，`/healthz` 200，空闲内存 backend 208MiB / frontend 43MiB / postgres 88MiB；任务 41（RSS 抓取）已拆成 41.1–41.5，Q41a–g 已按推荐确认，41.1 完成（表、迁移 `a982263b9709`、内置源登记），41.2 完成（抓取、解析、清洗、来源规则；Q41h 加 `FEED_HTTP_PROXY`），41.3 完成（`rss_fetch` 定时任务、退避、清理），41.4 完成（阅读来源接口），41.5 完成，**任务 41 完成**（迁移 head `a982263b9709`；本地领先 origin 6 个提交，未推送，Docker 未重建）；2026-10-08 推送到 aebe1b0，CI run 37751813041 四个 job 全绿；任务 42 已拆成 42.1–42.6，用户授权 Q42a–i 一律按推荐，42.1–42.6 完成，**任务 42 完成**（`article_versions`、迁移 head `7aeed833bec4`、规则版本 `2026-10-08.1`、改写子图 + 代码算词表、`/reading/articles/{id}/version` 接口、定时任务 `article_prerewrite`；pytest 1326、Vitest 340、E2E 50 全过；2026-10-08 推送到 e9ef014，CI run 37755052994 四个 job 全绿；Docker 未重建）；任务 43（`/reading` 页）已拆成 43.1–43.6，用户授权 Q43a–j 一律按推荐，43.1–43.6 完成，**任务 43 完成**（迁移 head `ab322160460f`；pytest 1339、Vitest 357、E2E 52 全过；Docker 已重建；2026-10-08 推送到 1a072a8，CI run 37770089765 四个 job 全绿）；任务 44 完成（后台预生成 AI 例句：覆盖率 GRE 30.8% / 托福 51.8%，按学习者第二天的词预生成，Q44a–f 按推荐确认，ADR 0020 修订，无迁移；2026-10-08 推送到 34d991d，CI run 37776938944 四个 job 全绿；Docker 未重建）；任务 45 完成（语法图谱：24 对易混关系、`kc_edges` 与启动时同步、`adaptive/graph.py` 递归查询，Q45a–g 按推荐确认，迁移 head `3a568a1e98f8`，规则版本 `2026-10-08.2`；pytest 1363 全过；2026-10-08 推送到 d6a05a6，CI run 37787550927 四个 job 全绿；Docker 未重建）；任务 46 完成（诊断 Agent：`adaptive/diagnosis/`、`diagnoses` 表、每天一次的定时任务 + 练习组结束后诊断、事实记忆原地更新、选题加成 ×1.5、评估集 12 条（还没用真模型录制）；Q46a–h 按推荐确认；迁移 head `b1e62314d079`，规则版本 `2026-10-08.3`；pytest 1396、Vitest 358、E2E 53 全过；2026-10-08 推送到 a41901e，CI run 37797059893 四个 job 全绿；Docker 未重建）；任务 47 完成（学习者模型页“私教的诊断”：`GET /learner/diagnosis`、`DELETE /learner/diagnoses/{id}`、语法点带前置 / 易混、页面区块；Q47a–g 按推荐确认；无迁移；pytest 1403、Vitest 362、E2E 54 全过；2026-10-09 推送到 0341245，CI run 37889566947 四个 job 全绿；Docker 未重建）；任务 48 完成（每日计划：算法出草案、看板确认、私教 `propose_daily_plan` 确认卡重提、完成情况现算；ADR 0027；Q48a–h 按推荐确认；迁移 head `16aa2f30597e`，规则版本 `2026-10-09.1`；pytest 1430、Vitest 371、E2E 56 全过；2026-10-09 推送到 3766353，CI run 37895335895 四个 job 全绿；Docker 已重建（约 40 秒），迁移 head `16aa2f30597e`，`/healthz` 200，空闲内存 backend 204MiB / frontend 50MiB / postgres 100MiB）；用户决定产品完整前不再逐个任务实测，以 E2E 覆盖。任务 49 已拆成 49.1–49.5（Q49a–e 按推荐确认），49.1 完成（P2 全链路 E2E，E2E 57），49.2 完成（gpt-6.1-sol 真模型冒烟，诊断评估集已录制；发现超时太短、练习组冷启动 5 分钟、token 估计偏低，交给 49.3），49.3 完成（按任务设超时、练习组等待预算 150 秒、token 估计校准、新租户后台上限 300,000，迁移 head `c7e2a94d1b05`，规则版本 `2026-10-09.2`），49.4 完成（README 中英两份加练习、写作、阅读截图，标 P2 完成；PLAN 和 P2 计划标完成）；49.5 完成（`make ci` 全过：pytest 1438、Vitest 371、E2E 57；修了两处过期的测试断言；2026-10-09 推送到 8e33bf0，CI run 37936868983 四个 job 全绿；Docker 已重建，迁移 head `c7e2a94d1b05`，`/healthz` 200，空闲内存 backend 212MiB / frontend 59MiB / postgres 104MiB），**任务 49 完成，P2 全部完成**。下一步：P3 拆分（先读 `docs/PLAN.md` 第四节 P3，把任务写进看板，和用户确认后再写代码）。
 **阻塞项**：无
 
 ## P0 骨架
@@ -976,7 +976,7 @@
     - Q75d 弹层从哪里打开：（**任何页面都能打开（挂在应用外壳上），关闭后留在原页面，看板刷新待复习数**）/ 只在背单词页面打开
     - Q75e 题型切换和进度条：（**放在卡片上方的细条里：进度 x/y + 题型切换 + 关闭**）/ 收进卡片右上角的“…”菜单
 
-- [ ] 任务 76：桌宠小猫做功能入口和主动提醒（2026-10-14 用户提出：跟小猫说“我要背单词”，小猫弹出询问气泡，点一下就打开背单词弹层；配置引导也能由小猫来做；小猫还要通过头顶气泡主动提示）
+- [x] 任务 76：桌宠小猫做功能入口和主动提醒（2026-10-14 用户提出：跟小猫说“我要背单词”，小猫弹出询问气泡，点一下就打开背单词弹层；配置引导也能由小猫来做；小猫还要通过头顶气泡主动提示）
   - 现状（2026-10-14 核实）：
     - 桌宠 `tutor-pet.tsx` 只有状态反应（说 / 听 / 想 / 开心 / 打盹）；点它会打开 `pet-chat.tsx` 私教小窗（`TutorPanel`，接着最近的对话），没有气泡，也没有快捷动作。
     - 已经能原地打开的只有两个：背单词弹层（`?review=all|new`，`ReviewDeckHost` 会拦截 `/vocab/review` 链接）和私教小窗。
@@ -995,7 +995,7 @@
     - [x] 76.4 后端：`suggest_link` 增加种类（学新词、练习、写作、阅读、实时通话、生词本、记忆、私教设置、设置各节），同步更新提示词和测试；点了小窗里的链接卡片后收起小窗（完成：`LinkKind` 扩到 16 种（`vocab_learn`、`vocab_mine`、`practice`、`writing`、`reading`、`speaking_call`、`memory`、`tutor`、`settings`、`usage`），`LINK_KINDS` 改由 `get_args` 生成，工具说明同步；`_live` 给 `vocab_learn` 带剩余新词数，其他新种类为空；顺带加了 `tutor_profiles.nudges`（迁移 `e1f12efce78f`，76.5 的开关用）；前端 `LINK_HREFS`、卡片文案、`newLeft`；小窗 `onClickCapture` 遇到站内链接就收起（“在聊天页打开”的重复 onClose 去掉）。相关 pytest 30 个、Vitest 159 个通过，ruff / mypy / tsc / eslint 干净）
     - [x] 76.5 主动提醒 `lib/pet-nudges.ts`：根据 `/advice`、`/plan` 和模型状态选出一条，按 Q76c 控制频率，记住学习者关掉的提醒；开关按 Q76d（完成：`lib/pet-nudges.ts`：`pickNudge`（没配模型 → `/advice` 第一条不在当前页的 → 计划；在设置页不提配置；计划提醒在看板不提）、`mayNudge`（每天 3 条、间隔 10 分钟、事件不受间隔限制、祝贺不计数）、`readLog` / `noteSaid`（本机，按天清零，读坏了当作空）、`usePetAdvice` 同时取 `/plan/today`；`components/tutor/use-pet-nudges.ts` 管时机（进页面 5 秒后），安静条件：弹层、小窗、已有气泡、私教说 / 听 / 想、打盹、通话页、正在输入；收起时气泡留着、按钮上显示小红点；“我的私教”页“主动提醒”开关（关掉桌宠时隐藏），`Tutor.nudges` 前后端打通。E2E 默认通过 `storageState` 把当天提醒记录填满，免得气泡挡住其他用例的点击）
     - [x] 76.6 事件触发的提醒：一轮复习结束后问要不要接着学新词、打盹醒来时说“欢迎回来，有 N 个词待复习”、今天的计划完成时祝贺（完成：和 76.5 一起做，都在 `use-pet-nudges.ts`：弹层关闭后等 advice 刷新，没有到期复习且还有新词时问要不要接着学；打盹醒来时在第一条建议前加“欢迎回来！”；`petPlanDone` 发出 `lingo:pet-plan-done` 事件，弹出没有按钮的祝贺气泡。Vitest 全量 734 过）
-    - [~] 76.7 测试：Vitest（意图匹配、频率控制、注册表）；E2E（说“背单词”→ 气泡 → 弹层；没配模型 → 气泡引导到设置页连接卡片；提醒气泡点击后打开对应功能）；重拍截图；tsc / eslint / ruff / mypy / pytest / Vitest / E2E 全过
+    - [x] 76.7 测试：Vitest（意图匹配、频率控制、注册表）；E2E（说“背单词”→ 气泡 → 弹层；没配模型 → 气泡引导到设置页连接卡片；提醒气泡点击后打开对应功能）；重拍截图；tsc / eslint / ruff / mypy / pytest / Vitest / E2E 全过。**完成**：`e2e/pet.spec.ts` 2 条；`playwright.config.ts` 用 `storageState` 预填当天提醒记录，别的用例不被气泡挡住；只重拍了 `tutor-{zh,en}.png`（多了“主动提醒”开关）；ruff / mypy / pytest 1845、eslint / tsc / Vitest 734、E2E 78 全过（`p2-demo` 全量时偶发超时，单独重跑通过）
   - 待确认：
     - Q76a 怎么听懂“我要背单词”：（**混合：先在本地按触发词匹配，不耗 token、没配模型也能用；匹配不上再照常发给私教，由私教用 `suggest_link` 出卡片**）/ 全部交给私教模型 / 只做本地匹配
     - Q76b 匹配上之后：（**小猫头顶弹出询问气泡“要开始背单词吗？[开始] [不用]”，这条消息不发给模型**）/ 不问，直接打开

diff --git a/docs/SESSION_LOG.md b/docs/SESSION_LOG.md
@@ -4,6 +4,27 @@
 
 ---
 
+## 2026-10-14 任务 76：桌宠做功能入口和主动提醒（76.1–76.7）
+
+**做了什么**：
+- 76.1：ADR 0039；PLAN 私教一节补一段；`docs/agent-tools.md` 新增“桌宠的快捷动作与主动提醒”一节。
+- 76.4（先做后端）：`suggest_link` 扩到 16 种；`tutor_profiles.nudges`（迁移 `e1f12efce78f`，已在 dev 库 `make migrate`）；小窗点站内链接自动收起。
+- 76.2：`lib/pet-actions.ts`（24 个动作 + `matchAction`）；`lib/hash-flash.ts` 设置页锚点高亮。
+- 76.3：`pet-bubble.tsx`；`TutorPanel.beforeSend` / `initialText`；小窗顶部快捷动作和没配模型的警告；命中指令 → 询问气泡；`TutorPet` 放进 `Suspense`，背单词弹层打开时收起小窗和气泡。
+- 76.5 / 76.6：`lib/pet-nudges.ts`（选哪条、频率、本机记录、`usePetAdvice` 同时取计划）+ `components/tutor/use-pet-nudges.ts`（进页面 5 秒、背完一轮、打盹醒来、计划完成）；收起时显示小红点；“我的私教”页“主动提醒”开关。
+- 76.7：`e2e/pet.spec.ts` 两条（没配模型 → 提醒气泡 → 设置页连接卡片高亮；小窗说“我要背单词” → 询问气泡 → 当前页弹出叠卡，消息没进对话；问句照常发给私教）。
+
+**未完成**：无。76.7 完成：E2E 78、Vitest 734、pytest 1845 全过，lint 干净；只重拍了私教页截图。
+
+**下一步**：推送、看 CI；Docker 这次前后端都要重建（有迁移）。
+
+**踩坑**：
+- 背单词弹层的宿主在 document 捕获阶段拦截链接并 `stopPropagation`，React 的 onClick（挂在根节点）收不到，所以气泡和小窗不能靠点击回调收起，改为 `TutorPet` 读 `?review` 参数。
+- `lib/tutor-pet.ts` 的睡着 / 开心是模块级状态，前一个用例让桌宠睡着后会影响后面的用例，提醒相关用例要先 `resetPet()`。
+- 提醒会在任何页面 5 秒后弹出，可能挡住别的 E2E 用例的点击：`playwright.config.ts` 用 `storageState` 预先填满当天记录（含 `plan_done`），`pet.spec.ts` 里再清掉。
+
+---
+
 ## 2026-10-14 任务 75：背单词改为遮罩弹层叠卡（75.1–75.5）
 
 **做了什么**：
